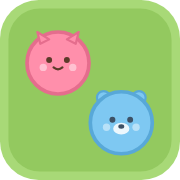
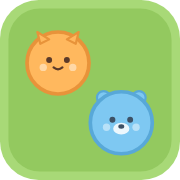
Change Mimi to orange and Pyon to pink
- Recolor the cat Mimi from pink to warm orange and the rabbit Pyon
  from lavender to pink, adjusting outline and eye tones to match
- Regenerate app icons so the icon's Mimi matches the new orange
- Bump service worker cache to v4

Claude-Session: https://claude.ai/code/session_01EnAuygdpBVb7UDvaVmsyYo

Changed region(s): [[0.1389, 0.1667, 0.5278, 0.5556]]

diff --git a/index.html b/index.html
@@ -437,9 +437,9 @@
 
 /* ================= キャラクター（すべてオリジナル） ================= */
 const CHARS = {
-  mimi: { name: "ミミ",   species: "ねこ",     body: "#ff8fab", edge: "#e56d8d", eye: "#5b3a29" },
+  mimi: { name: "ミミ",   species: "ねこ",     body: "#ffb85e", edge: "#e8933a", eye: "#5b3a29" },
   kuu:  { name: "クゥ",   species: "くま",     body: "#7ec8f2", edge: "#58a8d8", eye: "#3d5166" },
-  pyon: { name: "ピョン", species: "うさぎ",   body: "#c9a7f5", edge: "#a47ae0", eye: "#4a3a63" },
+  pyon: { name: "ピョン", species: "うさぎ",   body: "#ff8fab", edge: "#e56d8d", eye: "#6b3247" },
   kero: { name: "ケロ",   species: "かえる",   body: "#8ed36f", edge: "#65b249", eye: "#2e5c22" },
   pen:  { name: "ペン",   species: "ぺんぎん", body: "#9db8d9", edge: "#6f8fbb", eye: "#2f3f57" },
   hoo:  { name: "ホーせんせい", species: "ふくろう", body: "#c9a06e", edge: "#a67c4b", eye: "#3f2f1e" },

diff --git a/sw.js b/sw.js
@@ -2,7 +2,7 @@
  * ゲームに必要なファイルをすべてキャッシュして、オフラインでも遊べるようにする。
  * index.html などを更新したときは CACHE_VERSION を上げること。
  */
-const CACHE_VERSION = "futago-reversi-v3";
+const CACHE_VERSION = "futago-reversi-v4";
 const ASSETS = [
   "./",
   "./index.html",
